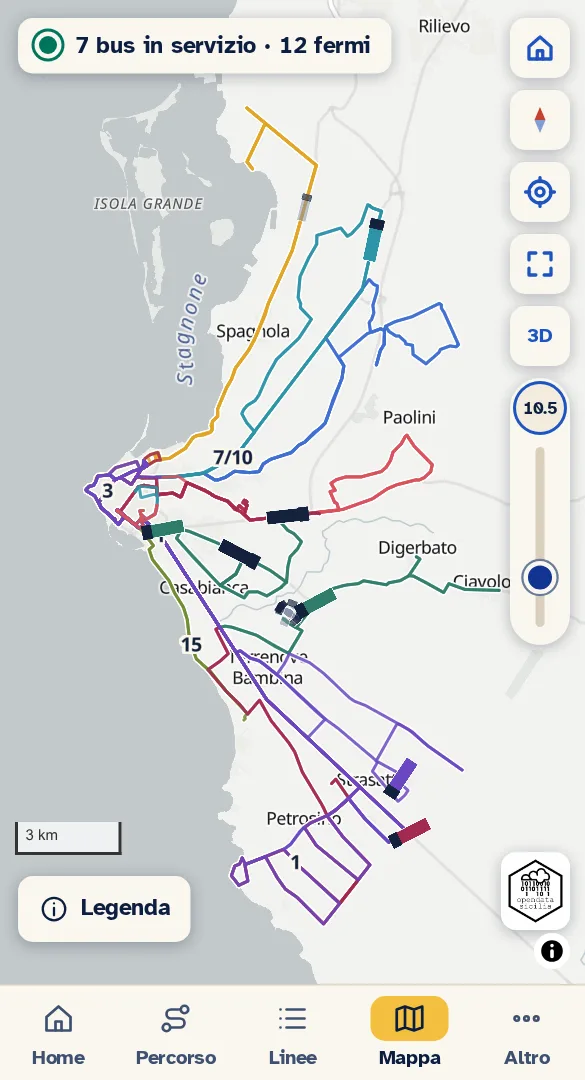
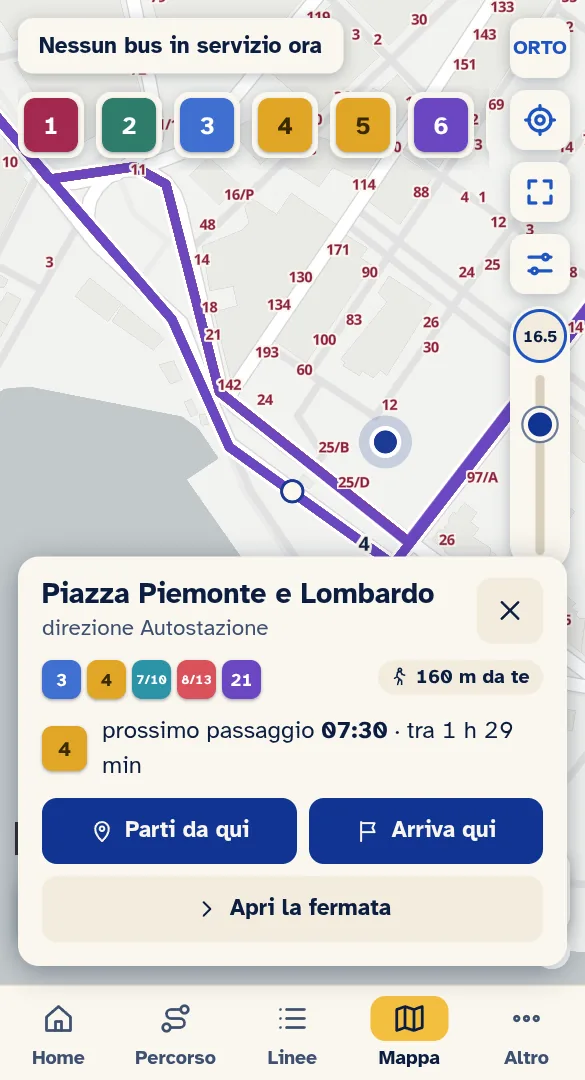
Guida e screenshot aggiornati alla nuova home, mappa e percorso
Testi: Home con posizione e «Vicino a te», scheda fermata sulla mappa, fila linee, menu Vista, privacy della posizione.
Immagini: home, mappa e percorso-risultati rifatte (lunedì 16/11/2026 06:00, GPS a Marsala).
sw.js v114.

diff --git a/js/i18n.js b/js/i18n.js
@@ -54,7 +54,7 @@ const IT = {
   privacyDoc: [
     ['Chi siamo', ['Marsala TPL è un’app non ufficiale, realizzata con i dati aperti del Comune di Marsala. Non è un servizio del Comune. Il titolare del trattamento dei dati descritto qui è Open Data Sicilia (https://opendatasicilia.it/).', 'Per esercitare i tuoi diritti o chiedere chiarimenti contatta Open Data Sicilia tramite il sito https://opendatasicilia.it/ oppure scrivi nelle Issues del progetto: https://github.com/PalermoHub/marsala_tpl/issues']],
     ['In breve', ['Non ci sono account, moduli, pubblicità né profilazione. Open Data Sicilia non vende né cede dati. Le statistiche d’uso partono solo se le accetti.']],
-    ['Posizione', ['Se tocchi «Usa la mia posizione» o parti dalla tua posizione nel pianificatore, il browser ti chiede il permesso. La posizione è elaborata solo sul tuo dispositivo per trovare le fermate vicine: non viene inviata al titolare né salvata. Puoi revocare il permesso dalle impostazioni del browser.']],
+    ['Posizione', ['Se tocchi «La mia posizione» o parti dalla tua posizione nel pianificatore, il browser ti chiede il permesso. Una volta concesso, l’app legge la posizione da sola quando apri una schermata, per mostrare i metri a piedi dalle fermate. La posizione è elaborata solo sul tuo dispositivo e resta in memoria finché l’app è aperta: non viene inviata al titolare né salvata. Puoi revocare il permesso dalle impostazioni del browser.']],
     ['Dati salvati sul tuo dispositivo', ['Lingua, tema, fermate preferite, ultima fermata vista e la tua scelta sulle statistiche sono nel «localStorage» del browser; gli orari e i file dell’app nella cache offline. Sono strumenti tecnici necessari al funzionamento (art. 122, c. 1, Codice privacy) e non richiedono consenso. Restano sul dispositivo e si cancellano dai dati del sito nelle impostazioni del browser.']],
     ['Statistiche d’uso (solo con consenso)', ['Se accetti, usiamo Google Analytics 4 (Google Ireland Limited) per capire quali sezioni sono più usate. Vengono impostati i cookie «_ga» e «_ga_G-KHR1GHDRQS» (durata 2 anni) e raccolti: pagine viste, tipo di dispositivo e browser, lingua, zona approssimativa e un identificativo casuale. L’indirizzo IP è anonimizzato e non usiamo funzioni pubblicitarie né il collegamento con altri servizi Google.', 'Base giuridica: il tuo consenso (art. 6, par. 1, lett. a GDPR e art. 122 Codice privacy). I dati sono conservati per il periodo impostato in Analytics, al massimo 14 mesi. Google può trattare dati anche fuori dallo Spazio economico europeo, sulla base della decisione di adeguatezza UE-USA (Data Privacy Framework) o di clausole contrattuali standard.', 'Puoi rifiutare o cambiare idea in ogni momento da Info → Privacy: la revoca ferma l’invio di dati e cancella i cookie. La scelta è chiesta di nuovo dopo 6 mesi.']],
     ['Servizi tecnici di terzi', ['Per funzionare l’app si collega a servizi che, come ogni sito, ricevono necessariamente il tuo indirizzo IP e i dati tecnici della richiesta: GitHub Pages (hosting dell’app), il servizio del Comune di Marsala per le posizioni dei bus in tempo reale (ospitato su Amazon Web Services), e, solo quando apri la mappa, jsDelivr (libreria della mappa), OpenFreeMap (tessere cartografiche) e, solo se attivi l’ortofoto, Regione Siciliana (immagini). Non inviamo loro altre informazioni su di te. Hanno proprie informative: GitHub, Amazon Web Services, jsDelivr, OpenFreeMap, Regione Siciliana.', 'Questi collegamenti sono necessari a fornire il servizio che richiedi (art. 6, par. 1, lett. b e f GDPR).']],
@@ -104,16 +104,16 @@ const IT = {
   // [id, icona, titolo, introduzione, passi, consiglio, [[foto, descrizione]...]]
   guideDoc: [
     ['start', 'home', 'Come è fatta l’app', 'In basso c’è sempre una barra con i pulsanti per spostarti. Eccoli da sinistra a destra:', [
-      '<b>Home</b>: la pagina di partenza. Mostra subito la tua fermata preferita; se non ne hai ancora una, ti aiuta a trovarla.',
+      '<b>Home</b>: la pagina di partenza. In alto ci sono «La mia posizione» e «Cerca fermata»; sotto, «Vicino a te» ti dice dove sei e quali fermate e linee hai attorno, con i metri a piedi.',
       '<b>Percorso</b>: ti dice quale bus prendere per andare da un posto a un altro.',
       '<b>Linee</b>: l’elenco di tutte le linee, con fermate e orari.',
       '<b>Mappa</b>: la mappa con i percorsi e i bus che stanno circolando.',
       '<b>Altro</b>: gli avvisi del Comune, questa guida, le informazioni (lingua, aspetto chiaro o scuro, fonti dei dati) e la privacy.',
-    ], 'Tocca la stella su una fermata per salvarla: da quel momento la ritrovi subito aprendo l’app.', [['home', 'La pagina Home con i pulsanti principali e la barra in basso']]],
+    ], 'Tocca la stella su una fermata per salvarla: da quel momento la ritrovi subito aprendo l’app.', [['home', 'La Home con «La mia posizione», «Cerca fermata» e le fermate vicine con i metri a piedi']]],
     ['stop', 'pin', 'Come cercare una fermata', 'Ci sono tre modi, scegli quello che ti viene più comodo.', [
-      '<b>Per nome.</b> Tocca «Cerca una fermata» (nella Home o nella pagina «Prossimo bus») e scrivi qualche lettera, per esempio «crispi» o «piazza rep». Non servono le maiuscole né gli accenti. Tocca il risultato giusto per aprire la fermata.',
-      '<b>Dove ti trovi.</b> Tocca «Usa la mia posizione» e consenti al telefono di usarla: l’app ti mostra le fermate più vicine, con la distanza. La tua posizione resta nel telefono e non viene inviata a nessuno.',
-      '<b>Dalla mappa.</b> Apri «Mappa», ingrandisci con due dita fino a vedere i puntini delle fermate e toccane uno: si apre la fermata.',
+      '<b>Per nome.</b> Tocca «Cerca fermata» (nella Home) e scrivi qualche lettera, per esempio «crispi» o «piazza rep». Non servono le maiuscole né gli accenti. Tocca il risultato giusto per aprire la fermata.',
+      '<b>Dove ti trovi.</b> Tocca «La mia posizione» e consenti al telefono di usarla: l’app ti mostra le fermate più vicine, con i metri a piedi da te («290 m da te»). Se sei su un bus in movimento i metri spariscono e compare «Sei in movimento»: quando scendi tocca «Aggiorna posizione». La tua posizione resta nel telefono e non viene inviata a nessuno.',
+      '<b>Dalla mappa.</b> Apri «Mappa», ingrandisci con due dita fino a vedere i puntini delle fermate e toccane uno: in basso compare una scheda con il prossimo passaggio e le linee. «Apri la fermata» mostra tutti i dettagli.',
     ], 'La stessa strada ha di solito due fermate, una per senso di marcia. Guarda la scritta «direzione…» sotto il nome per scegliere quella giusta. Se hai sbagliato lato, in fondo alla pagina c’è «Altro senso di marcia».', [['cerca', 'La pagina di ricerca con alcune lettere scritte e l’elenco dei risultati']]],
     ['next', 'clock', 'Come vedere quando passa il bus', 'Apri una fermata (vedi sopra). In alto vedi subito il prossimo bus.', [
       'Il numero grande è l’attesa in minuti: «21 min» significa che il bus passa tra 21 minuti. L’orario preciso è scritto sotto.',
@@ -175,14 +175,15 @@ const IT = {
     ['map', 'map', 'Come usare la mappa', 'La mappa mostra i percorsi delle linee e i bus che circolano in questo momento.', [
       'Tocca «Mappa» nella barra in basso. Serve la connessione a internet.',
       'Trascina con un dito per spostarti, con due dita per ingrandire o rimpicciolire.',
-      'Ingrandendo compaiono le fermate: tocca un puntino per aprirla.',
+      'Sopra la mappa, la fila di targhette con le linee di oggi: tocca una linea per metterla a fuoco, «Tutte» per tornare alla rete.',
+      'Ingrandendo compaiono le fermate: tocca un puntino e in basso si apre la scheda con il prossimo passaggio, i metri da te e i pulsanti «Parti da qui» e «Arriva qui».',
       'I piccoli bus sono i mezzi in servizio. Toccane uno per seguirlo lungo il percorso.',
       'Il pulsante «Legenda» in basso spiega i simboli.',
-      'Sul bordo destro ci sono i comandi: casetta (mostra tutta la rete), bussola (rimette il nord in alto), mirino (la tua posizione), riquadro (schermo intero). Accanto c’è il cursore dello zoom (puoi anche pizzicare lo schermo).',
+      'Sul bordo destro ci sono i comandi: «MAP/ORTO» (sfondo stradale o foto aeree), mirino (la tua posizione), riquadro (schermo intero) e «Vista», che apre casetta (mostra tutta la rete), bussola (rimette il nord in alto), 3D e civici. Accanto c’è il cursore dello zoom (puoi anche pizzicare lo schermo).',
       'Le fonti dei dati della mappa si aprono toccando la piccola «i» in basso a destra.',
-    ], 'La linea di un bus è stimata dal suo percorso: può non essere esatta.', [['mappa', 'La mappa con i percorsi delle linee e i bus in servizio']]],
+    ], 'La linea di un bus è stimata dal suo percorso: può non essere esatta.', [['mappa', 'La mappa con la fila delle linee in alto e la scheda di una fermata toccata']]],
     ['map3d', 'map', 'Come vedere la mappa in 3D', 'Il pulsante «3D» inclina la mappa e mostra gli edifici in rilievo e i bus come piccoli mezzi in tre dimensioni.', [
-      'Apri «Mappa» e tocca il pulsante «3D» nella colonna di comandi a destra: la mappa si inclina.',
+      'Apri «Mappa» e tocca «Vista» nella colonna di comandi a destra e poi «3D»: la mappa si inclina.',
       'Gli edifici compaiono lungo i percorsi delle linee, con l’altezza stimata. Ingrandisci per vederli meglio.',
       'Per girare la mappa trascina con due dita in senso circolare; per cambiare l’inclinazione trascina in su o in giù con due dita.',
       'Tocca la bussola per rimettere il nord in alto.',

diff --git a/css/app.css b/css/app.css
@@ -585,7 +585,7 @@ html.embed::-webkit-scrollbar, html.embed body::-webkit-scrollbar { display: non
 .here-name { font-size: 15px; }
 
 /* ---------- Mappa: fila delle linee e scheda fermata ---------- */
-.map-lines { display: flex; gap: 8px; list-style: none; margin: 8px -64px 0 0; padding: 4px 64px 8px 0; overflow-x: auto; scrollbar-width: none; scroll-snap-type: x proximity; }
+.map-lines { display: flex; gap: 8px; list-style: none; margin: 8px 0 0; padding: 4px 4px 8px 0; overflow-x: auto; scrollbar-width: none; scroll-snap-type: x proximity; }
 .map-lines::-webkit-scrollbar { display: none; }
 .map-lines li { flex: none; scroll-snap-align: start; }
 .map-lines a { display: grid; place-items: center; min-width: 44px; min-height: 44px; padding: 3px; border-radius: var(--r); background: var(--glaze); box-shadow: var(--shadow-float); text-decoration: none; color: var(--ink); font-weight: 700; font-size: 15px; }

diff --git a/sw.js b/sw.js
@@ -2,7 +2,7 @@
 // - Codice (html/js/css): prima la rete (con timeout), poi la cache: online si ha sempre una versione coerente.
 // - Dati, font, icone: dalla cache, aggiornati in background.
 // - MapLibre dalla CDN: cache al primo uso. Feed RT e tile della mappa non vengono mai messi in cache da qui.
-const VERSION = 'v112';
+const VERSION = 'v114';
 const CACHE = `marsala-tpl-${VERSION}`;
 const PRECACHE = [
   './', 'index.html', 'manifest.webmanifest', 'css/app.css',
